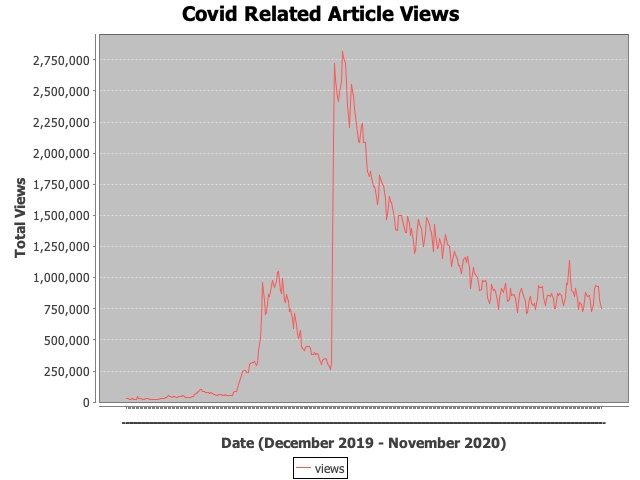
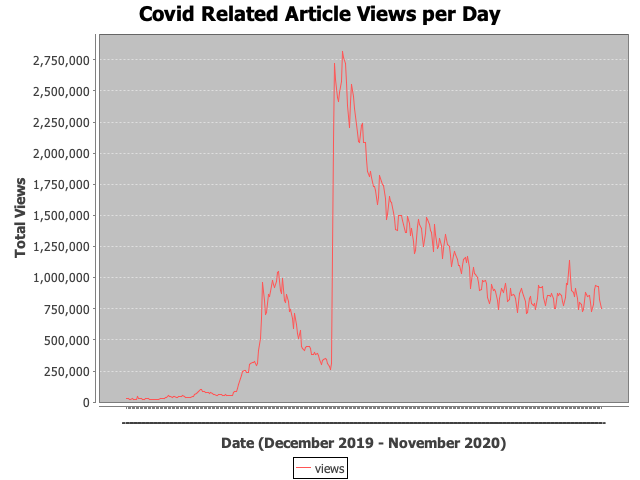
Project

diff --git a/src/main/java/space/harbour/java/project/LineChartSumPageViews.java b/src/main/java/space/harbour/java/project/LineChartSumPageViews.java
@@ -118,8 +118,8 @@ public class LineChartSumPageViews {
         dataset.addValue(2.85, "sumviews", "2016080100");
 
         JFreeChart lineChartObject = ChartFactory.createLineChart(
-                "Sum of Page Views", "Date (December 2007 - August 2016)",
-                "Sum of Page Views (in Billion)",
+                "Covid Related Article Views per Month", "Date (December 2007 - August 2016)",
+                "Total Views (in Billion)",
                 dataset, PlotOrientation.VERTICAL,
                 true, true, false);
 

diff --git a/src/main/java/space/harbour/java/project/LineChart.java b/src/main/java/space/harbour/java/project/LineChart.java
@@ -370,7 +370,7 @@ public class LineChart {
 
 
         JFreeChart lineChartObject = ChartFactory.createLineChart(
-                "Covid Related Article Views", "Date (December 2019 - November 2020)",
+                "Covid Related Article Views per Day", "Date (December 2019 - November 2020)",
                 "Total Views",
                 dataset, PlotOrientation.VERTICAL,
                 true, true, false);
